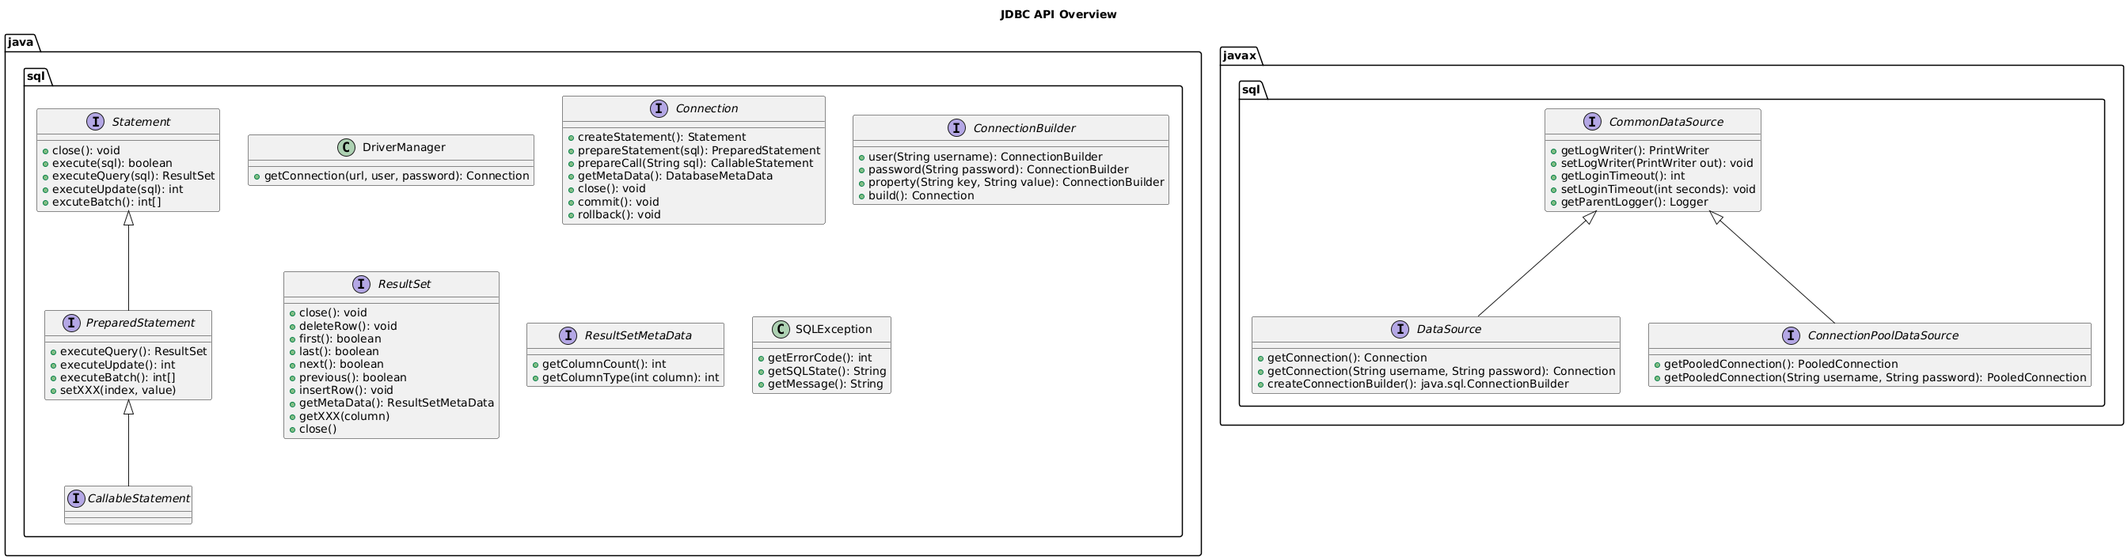
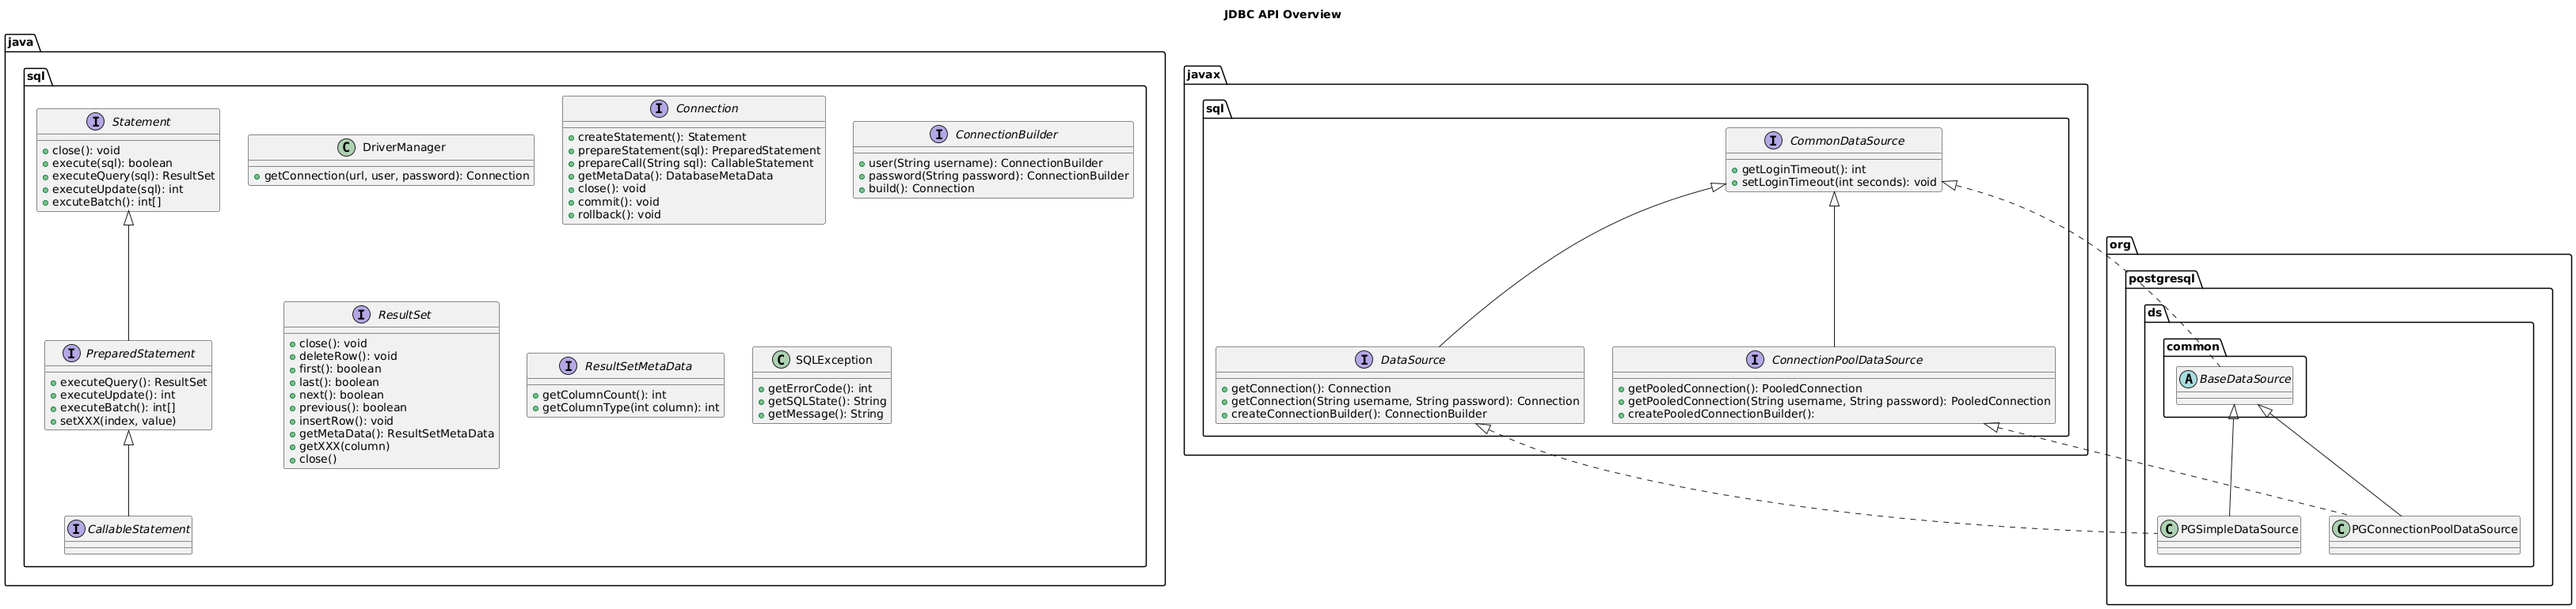
melhorias

Changed region(s): [[0.0, 0.0311, 1.0, 0.9944], [0.4688, 0.0, 0.5312, 0.0311]]

diff --git a/lectures/examples/14-jdbc/src/java.sql.DataSource/ConnectionPoolDataSourceDemo.java b/lectures/examples/14-jdbc/src/java.sql.DataSource/ConnectionPoolDataSourceDemo.java
@@ -1,4 +1,4 @@
-import org.postgresql.ds.PGPoolingDataSource;
+import org.postgresql.ds.PGConnectionPoolDataSource;
 
 import java.sql.Connection;
 import java.sql.PreparedStatement;
@@ -8,7 +8,7 @@ import java.sql.SQLException;
 public class ConnectionPoolDataSourceDemo {
     public static void main(String[] args) {
     
-        PGPoolingDataSource dataSource = new PGPoolingDataSource();
+        PGConnectionPoolDataSource dataSource = new PGConnectionPoolDataSource();
 
         dataSource.setServerNames(new String[] {"localhost"});
         dataSource.setPortNumbers(new int[] {5431});
